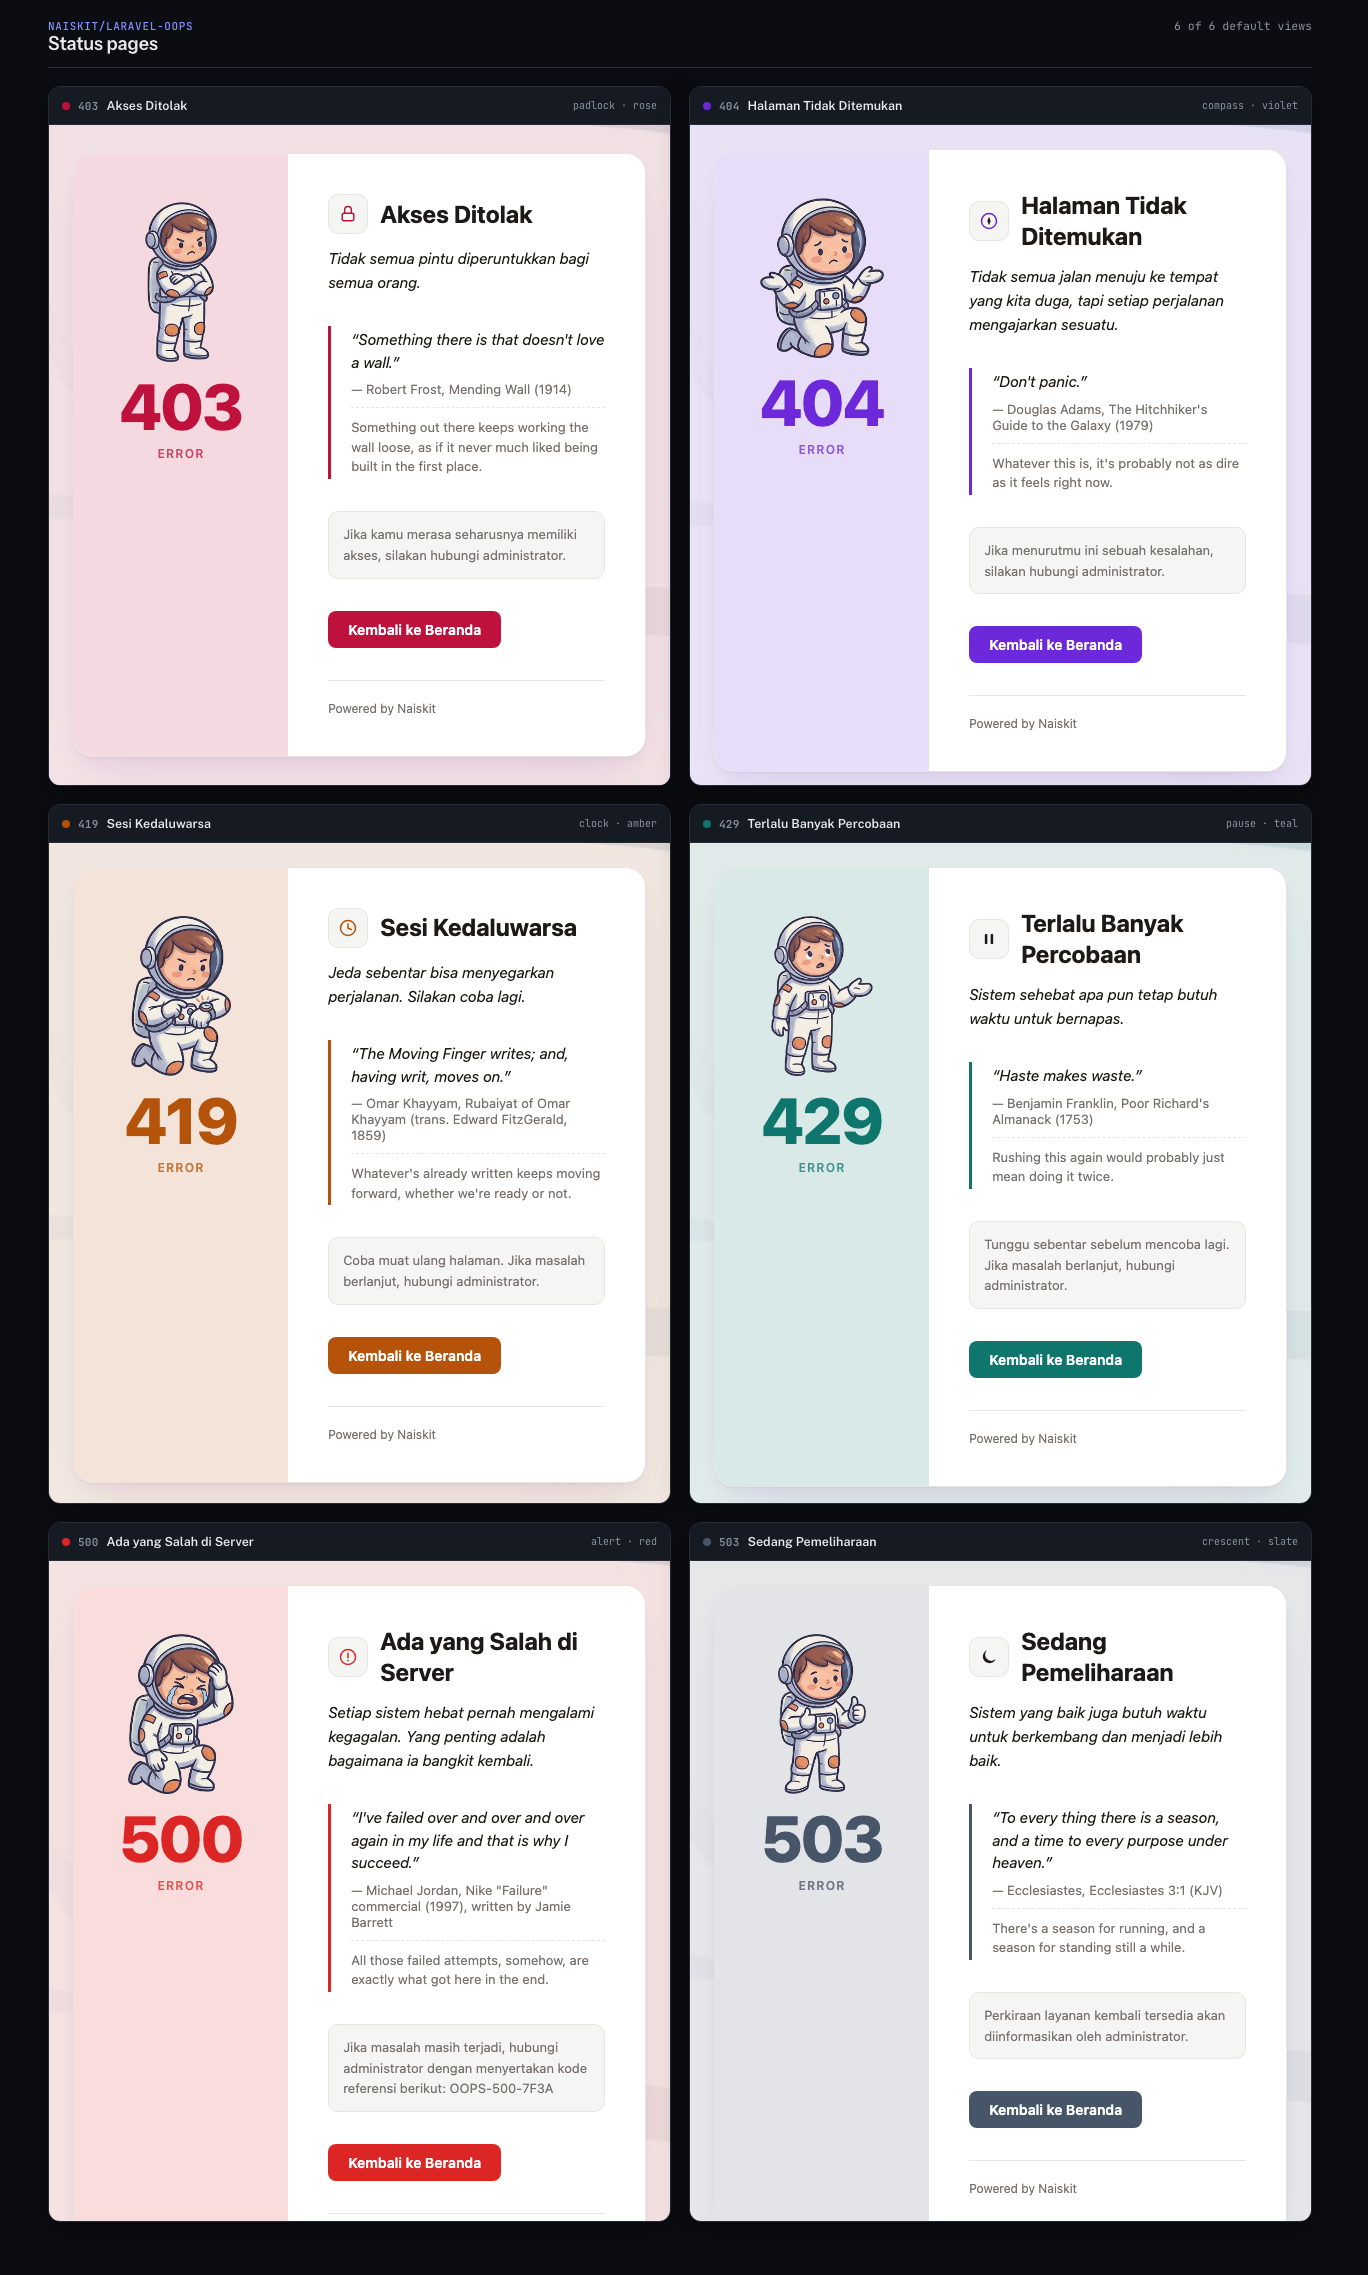
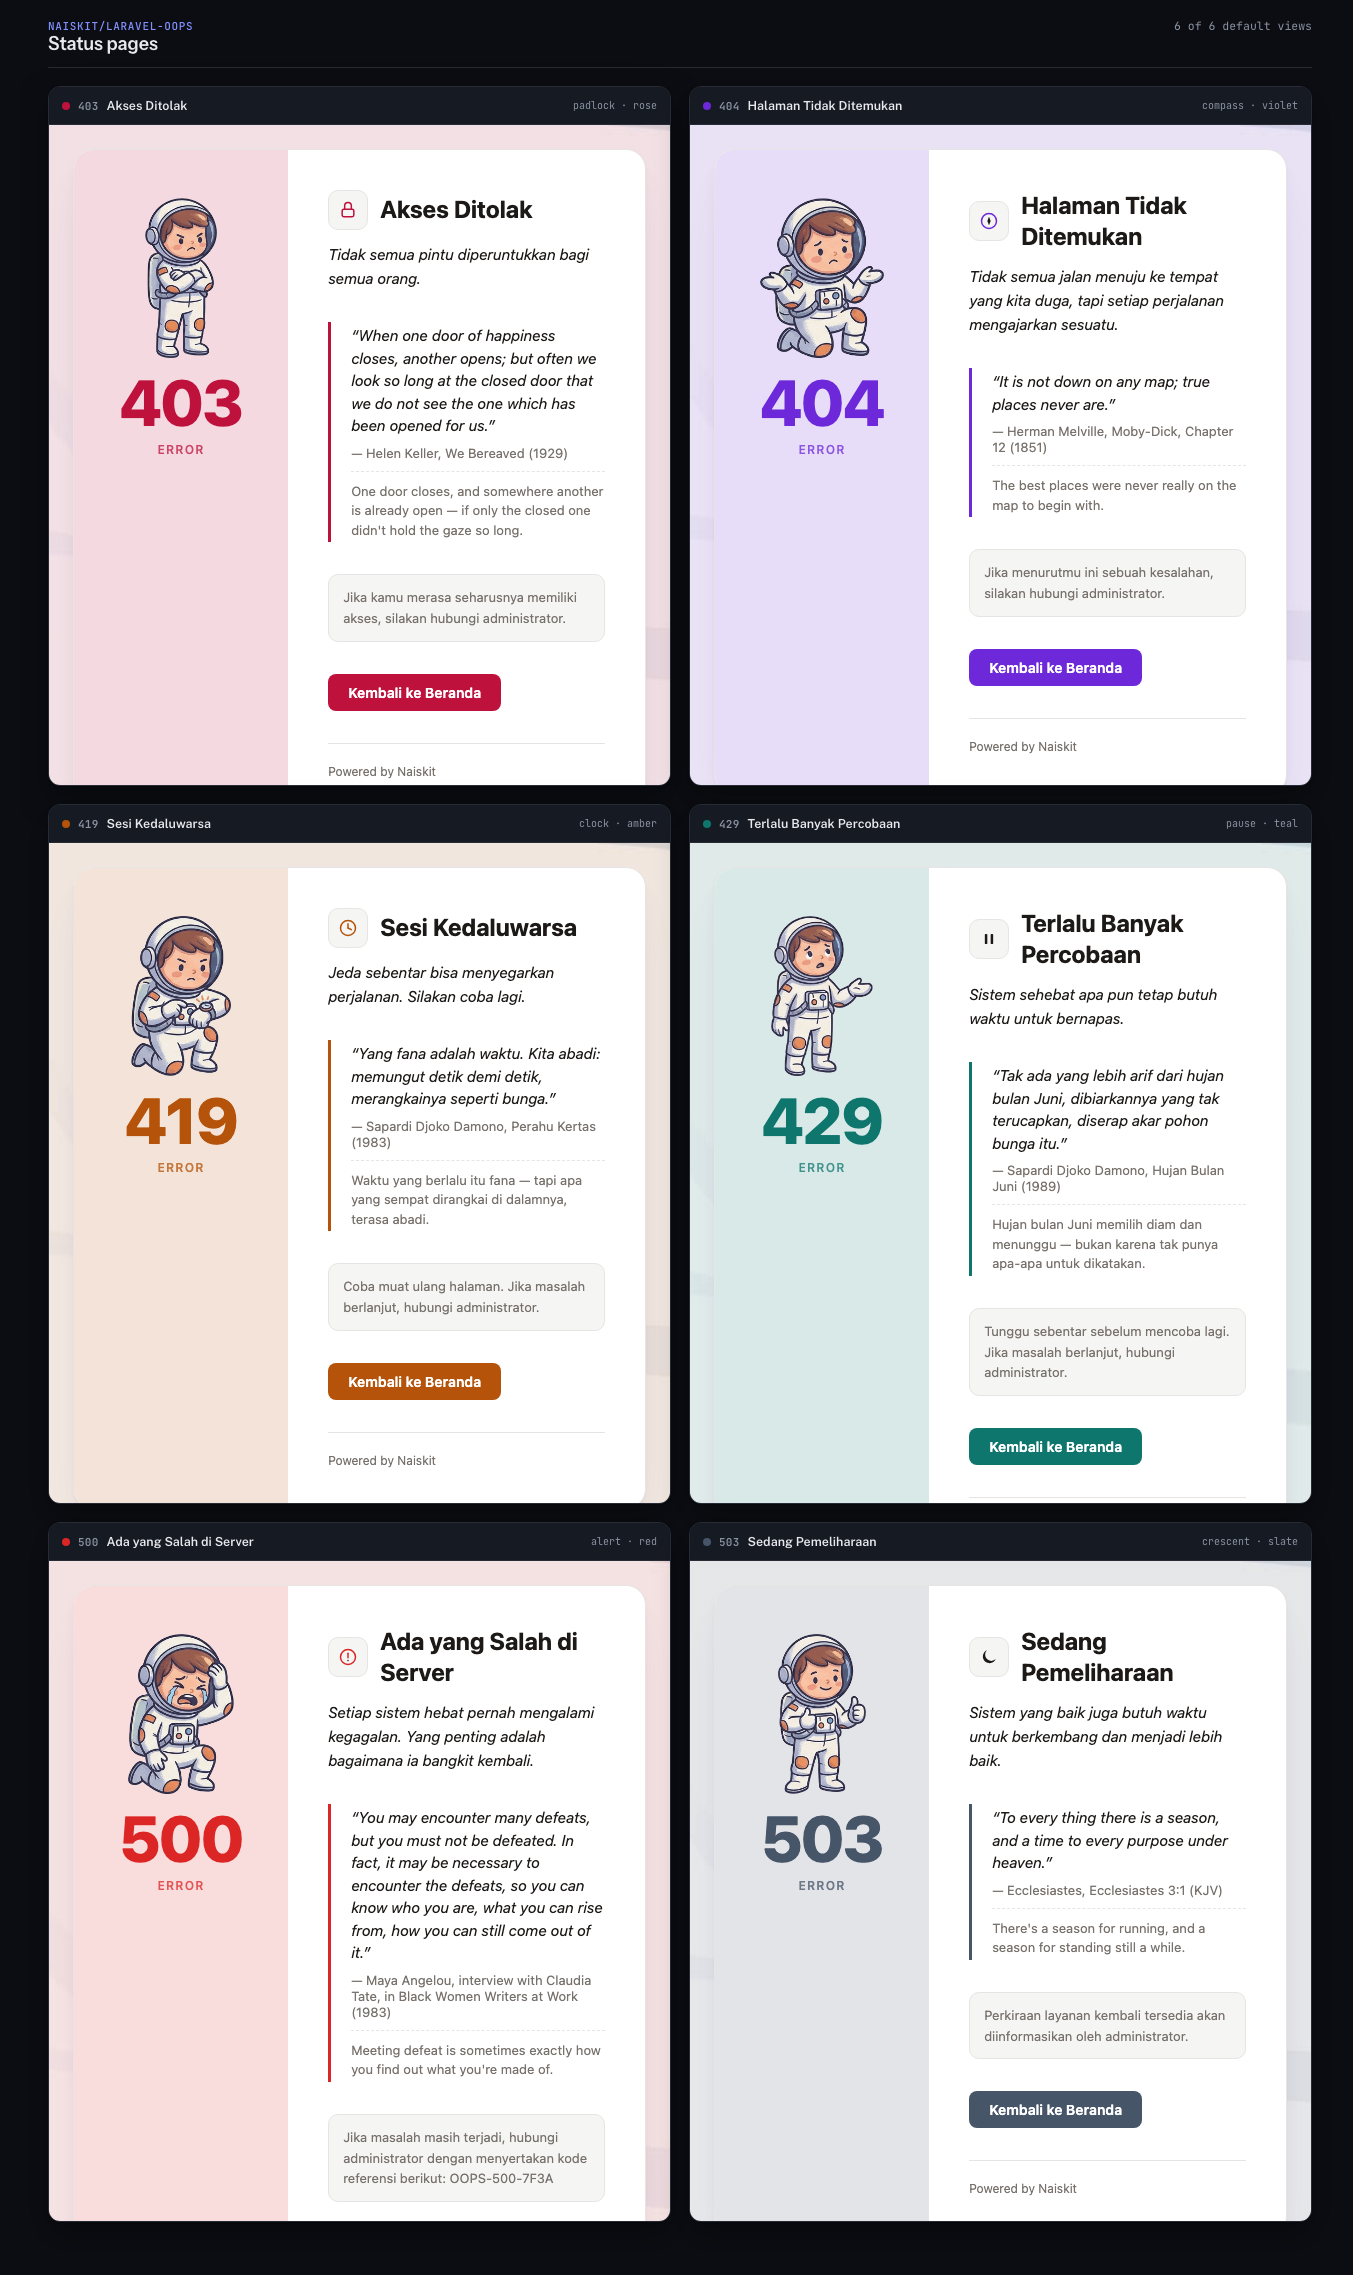
content: add verified quotes (proverb, Franklin, Maya Angelou) and give dark mode a subtle background vignette

diff --git a/resources/views/layout.blade.php b/resources/views/layout.blade.php
@@ -62,8 +62,11 @@
                     {!! $vars($colorsDark) !!}
                 }
 
-                {{-- The decorative background is light-mode only; drop it once the OS switches to dark. --}}
-                body { background-image: none; }
+                {{-- The decorative image is light-mode only; once the OS
+                     switches to dark, swap it for a soft dark vignette
+                     instead, so the flat background still reads as
+                     deliberate rather than blending flatly into the card. --}}
+                body { background-image: radial-gradient(ellipse at center, rgba(0, 0, 0, 0) 0%, rgba(0, 0, 0, 0.35) 100%); }
             }
         @endif
 
@@ -85,6 +88,11 @@
                 background-size: cover;
                 background-position: center;
                 background-repeat: no-repeat;
+            @elseif ($themeMode === 'dark')
+                {{-- No decorative image in dark mode — a soft dark vignette
+                     instead, so the card reads as sitting in the page
+                     rather than pasted on a flat, uniform background. --}}
+                background-image: radial-gradient(ellipse at center, rgba(0, 0, 0, 0) 0%, rgba(0, 0, 0, 0.35) 100%);
             @endif
             color: var(--text);
             font-family: -apple-system, BlinkMacSystemFont, "Segoe UI", Roboto, Helvetica, Arial, sans-serif;

diff --git a/resources/quotes/500/default.php b/resources/quotes/500/default.php
@@ -87,4 +87,12 @@ return [
         'genre' => 'wise',
         'meaning' => 'For every bit of trouble in the world, there\'s usually just as much quiet work undoing it.',
     ],
+    [
+        'text' => 'You may encounter many defeats, but you must not be defeated. In fact, it may be necessary to encounter the defeats, so you can know who you are, what you can rise from, how you can still come out of it.',
+        'author' => 'Maya Angelou',
+        'source' => 'interview with Claudia Tate, in Black Women Writers at Work (1983)',
+        'lang' => 'en',
+        'genre' => 'wise',
+        'meaning' => 'Meeting defeat is sometimes exactly how you find out what you\'re made of.',
+    ],
 ];

diff --git a/resources/quotes/419/default.php b/resources/quotes/419/default.php
@@ -65,4 +65,12 @@ return [
         'genre' => 'wise',
         'meaning' => 'Waktu yang berlalu itu fana — tapi apa yang sempat dirangkai di dalamnya, terasa abadi.',
     ],
+    [
+        'text' => 'You may delay, but time will not.',
+        'author' => 'Benjamin Franklin',
+        'source' => 'Poor Richard\'s Almanack',
+        'lang' => 'en',
+        'genre' => 'wise',
+        'meaning' => 'Whatever\'s being put off, the clock keeps going either way.',
+    ],
 ];

diff --git a/resources/quotes/404/default.php b/resources/quotes/404/default.php
@@ -62,4 +62,12 @@ return [
         'genre' => 'wise',
         'meaning' => 'Berlari dari satu tempat, tersesat di tempat lain — kadang begitu saja jalannya hidup.',
     ],
+    [
+        'text' => 'Malu bertanya, sesat di jalan.',
+        'author' => 'Peribahasa Indonesia',
+        'source' => null,
+        'lang' => 'id',
+        'genre' => 'wise',
+        'meaning' => 'Kadang yang bikin tersesat bukan jalannya, tapi terlalu segan untuk bertanya arah.',
+    ],
 ];

diff --git a/resources/quotes/general/default.php b/resources/quotes/general/default.php
@@ -54,4 +54,12 @@ return [
         'genre' => 'wise',
         'meaning' => 'Sekali hidup, rasanya memang ingin terus ada dan terus berkarya.',
     ],
+    [
+        'text' => 'Well done is better than well said.',
+        'author' => 'Benjamin Franklin',
+        'source' => 'Poor Richard\'s Almanack (1737)',
+        'lang' => 'en',
+        'genre' => 'wise',
+        'meaning' => 'The doing tends to speak for itself, eventually.',
+    ],
 ];

diff --git a/CHANGELOG.md b/CHANGELOG.md
@@ -63,7 +63,10 @@ project follows [Semantic Versioning](https://semver.org/).
   faint translucent wash of the status's own accent color layered on top
   (`ErrorPageComposer::hexToRgba()` + a flat-color `linear-gradient`), so
   the color-coding reads across the whole page background, not just the
-  sidebar.
+  sidebar. In dark mode, where there's no decorative image to layer onto,
+  the page background instead gets a soft black radial-gradient vignette
+  (transparent at the center, ~35% black at the edges) so the flat dark
+  background still reads as deliberate rather than a plain, uniform fill.
 - A mascot illustration in the sidebar for 403/404/419/429/500/503 — a
   small astronaut character matching each status's mood (shrugging for
   "not found," arms crossed for "access denied," crying for "server
@@ -182,6 +185,29 @@ project follows [Semantic Versioning](https://semver.org/).
   Indonesian-language coverage is thinner as a result: `general` now has
   only one verified `id` quote (Chairil Anwar), and 500/503 still have
   none.
+- Added a few more entries after the pass above: a well-known Indonesian
+  proverb for 404 ("Malu bertanya, sesat di jalan" — light and directly
+  on-theme, unlike the heavier literary/philosophical quotes elsewhere in
+  the library), plus three more for 419/500/general sourced by mining two
+  "best quotes" listicle articles (Liputan6, detik.com) for candidates and
+  independently re-verifying each one — treating the listicles only as a
+  discovery tool, never as the cited source. Of 8 candidates checked this
+  way, only 3 held up: two genuine Benjamin Franklin lines from Poor
+  Richard's Almanack ("You may delay, but time will not"; "Well done is
+  better than well said") and a Maya Angelou line corrected to its actual
+  wording from a 1983 interview (the popularly-circulated version —
+  "You will face many defeats in your life..." — is flagged as a misquote
+  on Goodreads; the real line is "You may encounter many defeats, but you
+  must not be defeated..."). The other 5 candidates were confirmed false
+  attributions on inspection, including a *second* fake Winston Churchill
+  line already known from the pass above appearing again in these
+  listicles, a C.S. Lewis line actually from a 1982 James Sherman book,
+  two different fake Oscar Wilde lines ("Be yourself; everyone else is
+  already taken" and "Always forgive your enemies..." — the Oscar Wilde
+  Society's own chairman called the first one "definitely not Oscar"),
+  and an unsourced Michael Jordan line — reinforcing why mainstream news
+  aggregator listicles are treated as leads to verify, never as citable
+  sources on their own.
 - `oops.locale` and `oops.quote_languages` are unified into a single
   `oops.lang` (`OOPS_LANG` via `.env`) — one language now drives *both*
   the page's copy and its quote pool. Previously the two were
